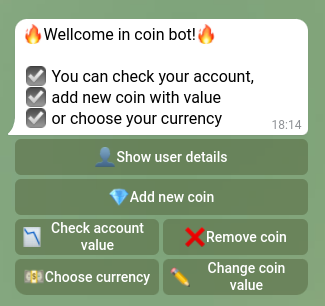
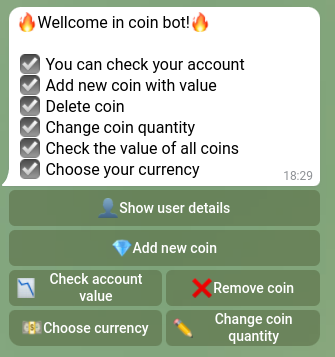
fix start option

diff --git a/src/index.ts b/src/index.ts
@@ -22,9 +22,12 @@ const bot = new Telegraf( process.env.BOT_TOKEN );
 bot.start( async ctx => {
     ctx.reply( `🔥Wellcome in coin bot!🔥
     
-	☑ You can check your account,
-	☑ add new coin with value
-	☑ or choose your currency`, {
+	☑ You can check your account
+	☑ Add new coin with value
+	☑ Delete coin
+	☑ Change coin quantity
+	☑ Check the value of all coins
+	☑ Choose your currency`, {
         'reply_markup': {
             'inline_keyboard': [
                 [
@@ -57,7 +60,7 @@ bot.start( async ctx => {
                         'callback_data': 'chooseCurrency'
                     },
                     {
-                        'text': '✏ Change coin value',
+                        'text': '✏ Change coin quantity',
                         'callback_data': 'changeCoin'
                     }
                 ]
@@ -100,7 +103,7 @@ bot.help( async ctx => {
                         'callback_data': 'chooseCurrency'
                     },
                     {
-                        'text': '✏ Change coin value',
+                        'text': '✏ Change coin quantity',
                         'callback_data': 'changeCoin'
                     }
                 ],
